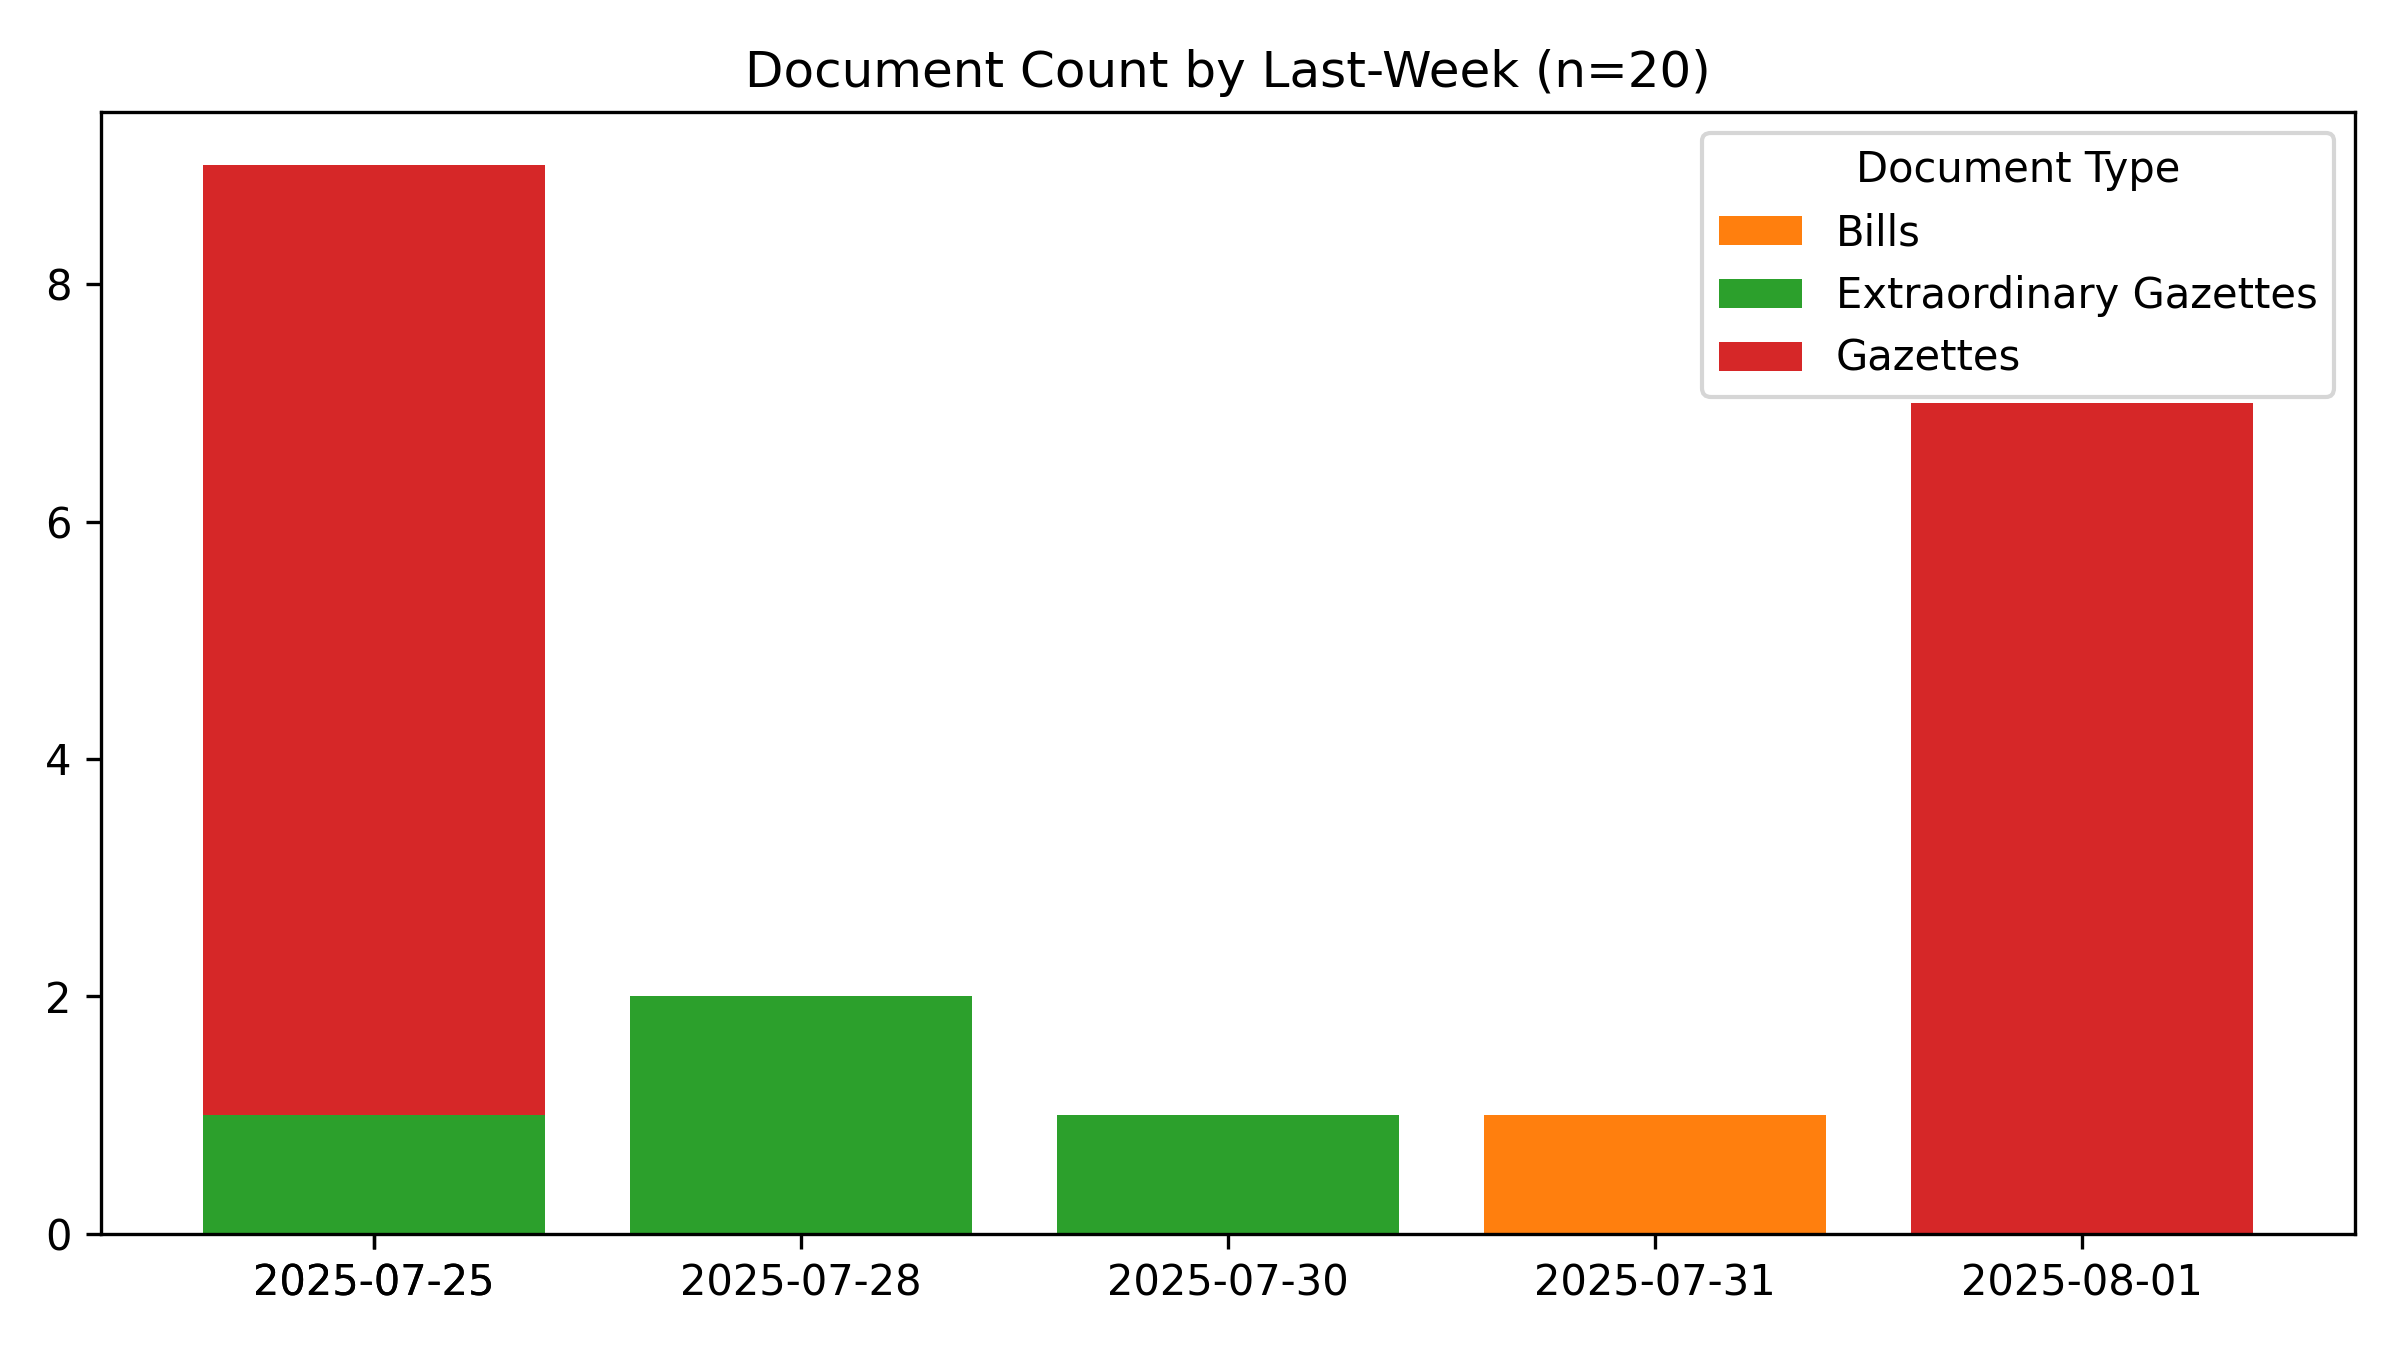
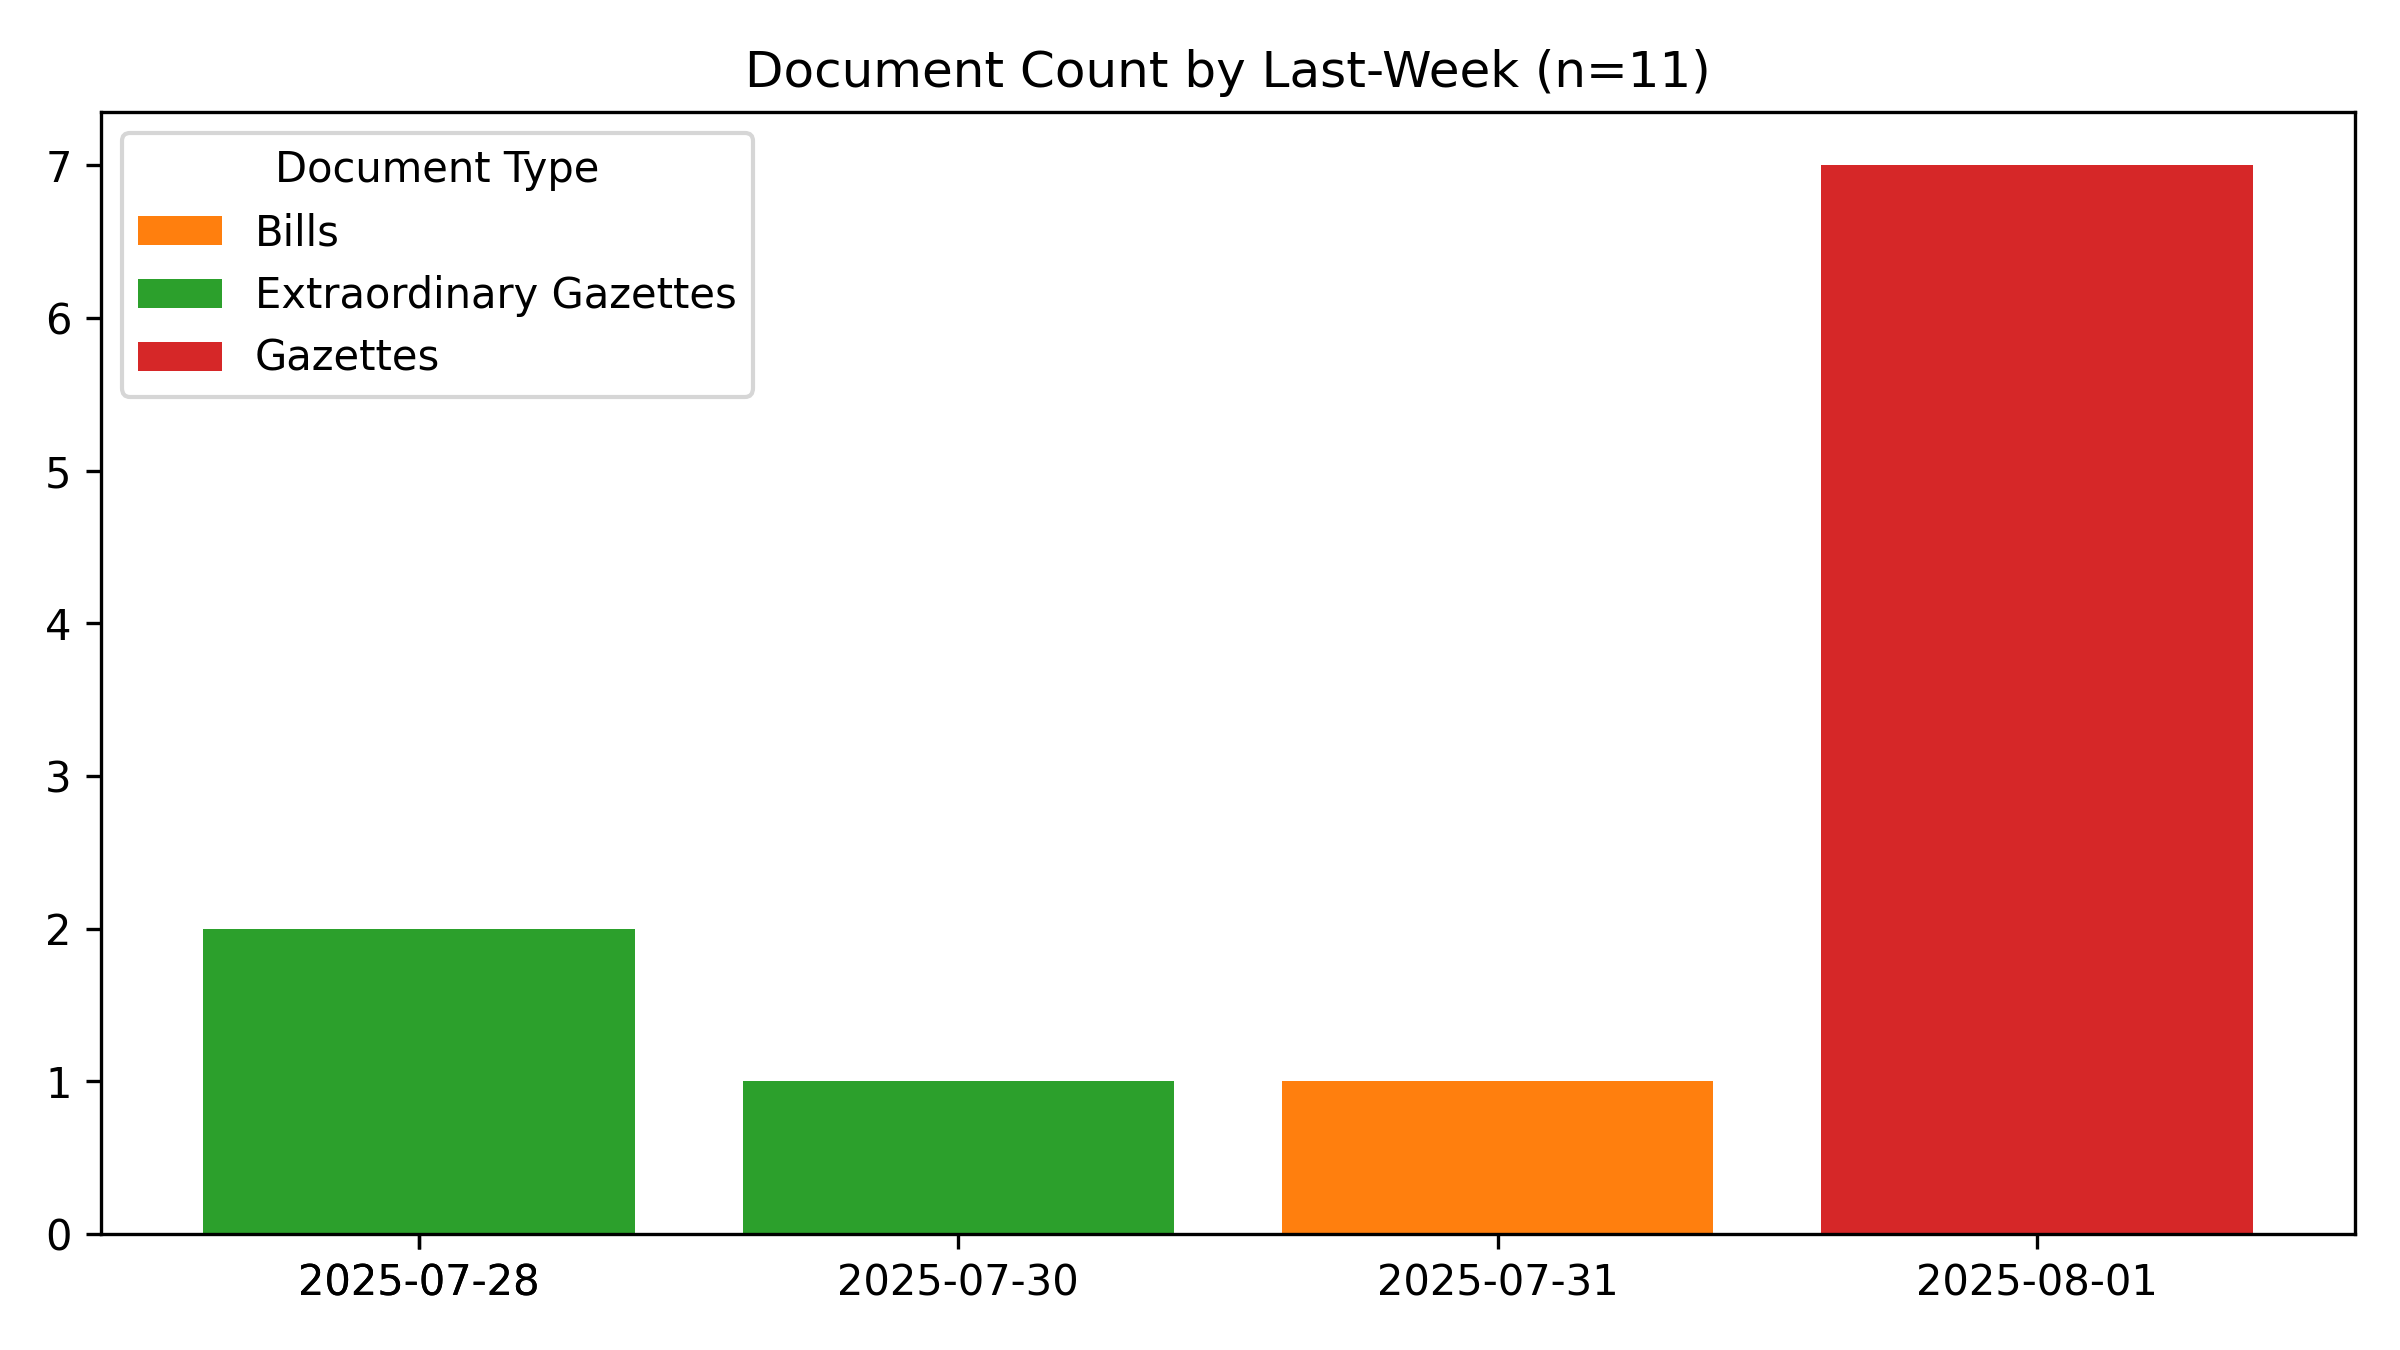
🤖 [data_scraper.yml] 2025-08-02-0135

diff --git a/README.md b/README.md
@@ -1,6 +1,6 @@
 # #SriLanka 🇱🇰 - Legal Documents #Dataset
 
-*Last Updated **2025-08-02 05:29:51**.*
+*Last Updated **2025-08-02 07:05:29**.*
 
 **44,200** documents (41.0 MB), from 1981-01-22 to 2025-08-01.
 
@@ -16,7 +16,7 @@ A collection of 📢 Gazettes, 🚨 Extraordinary Gazettes, 🏛 Acts, ✍
 
 #Legal #OpenData #GovTech
 
-📄 Currently, 103,579 PDFs (38.7 GB) for **36,623** documents (82.9%) have been downloaded. Final data size is estimated to be ~47 GB.
+📄 Currently, 103,600 PDFs (38.7 GB) for **36,632** documents (82.9%) have been downloaded. Final data size is estimated to be ~47 GB.
 
 ## 🆕 The Legal Documents App
 
@@ -45,7 +45,7 @@ For best results, use a desktop browser.
 
 ## Recent Documents (Published during the last 7 days)
 
-**20** Documents
+**11** Documents
 
 - 📢 [2025-08-01] [Legal Section](https://github.com/nuuuwan/lk_legal_docs_data/tree/main/data/gazettes/2025/2025-08-01-legal-section)
 - 📢 [2025-08-01] [Land Section](https://github.com/nuuuwan/lk_legal_docs_data/tree/main/data/gazettes/2025/2025-08-01-land-section)
@@ -58,12 +58,3 @@ For best results, use a desktop browser.
 - 🚨 [2025-07-30] [Election Commission - Notice under Section 66 A(1) Filling of a Vacancy in the office of members of the Walikaman West Pradeshiya Sabha](https://github.com/nuuuwan/lk_legal_docs_data/tree/main/data/extra-gazettes/2025/2447-28)
 - 🚨 [2025-07-28] [Land Title Settlement Dept. - Kendaliyaddapaluwa, Mahara D/S Division, Gampaha District (7846)](https://github.com/nuuuwan/lk_legal_docs_data/tree/main/data/extra-gazettes/2025/2447-02)
 - 🚨 [2025-07-28] [Sri Lanka Customs - Rates of Exchange from 28.07.2025 to 03.08.2025](https://github.com/nuuuwan/lk_legal_docs_data/tree/main/data/extra-gazettes/2025/2447-01)
-- 🚨 [2025-07-25] [Presidential Secretariat - Order Call Out All the member of the Armed Forces](https://github.com/nuuuwan/lk_legal_docs_data/tree/main/data/extra-gazettes/2025/2446-52)
-- 📢 [2025-07-25] [Legal Section](https://github.com/nuuuwan/lk_legal_docs_data/tree/main/data/gazettes/2025/2025-07-25-legal-section)
-- 📢 [2025-07-25] [Land Section](https://github.com/nuuuwan/lk_legal_docs_data/tree/main/data/gazettes/2025/2025-07-25-land-section)
-- 📢 [2025-07-25] [IV (B) - Local Government](https://github.com/nuuuwan/lk_legal_docs_data/tree/main/data/gazettes/2025/2025-07-25-iv-b-local-government)
-- 📢 [2025-07-25] [IV (A) - Provincial Councils](https://github.com/nuuuwan/lk_legal_docs_data/tree/main/data/gazettes/2025/2025-07-25-iv-a-provincial-councils)
-- 📢 [2025-07-25] [(III) - TRADE MARKS AND PATENT NOTICES](https://github.com/nuuuwan/lk_legal_docs_data/tree/main/data/gazettes/2025/2025-07-25-iii-trade-marks-and-patent-notices)
-- 📢 [2025-07-25] [(IIB) - Advertising](https://github.com/nuuuwan/lk_legal_docs_data/tree/main/data/gazettes/2025/2025-07-25-iib-advertising)
-- 📢 [2025-07-25] [(IIA) - Advertising](https://github.com/nuuuwan/lk_legal_docs_data/tree/main/data/gazettes/2025/2025-07-25-iia-advertising)
-- 📢 [2025-07-25] [(I) - General](https://github.com/nuuuwan/lk_legal_docs_data/tree/main/data/gazettes/2025/2025-07-25-i-general)
